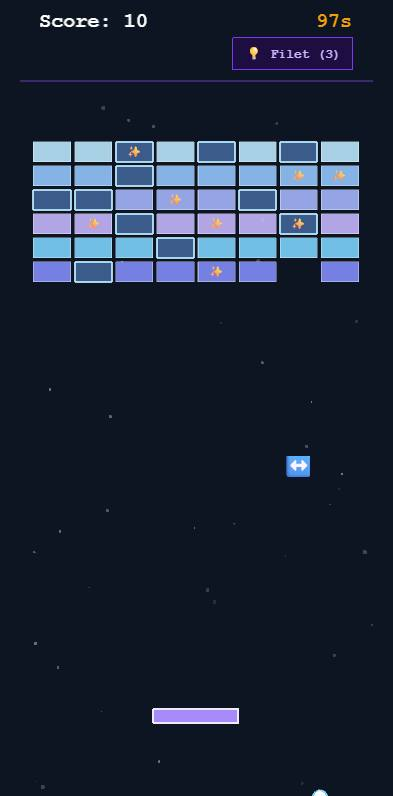
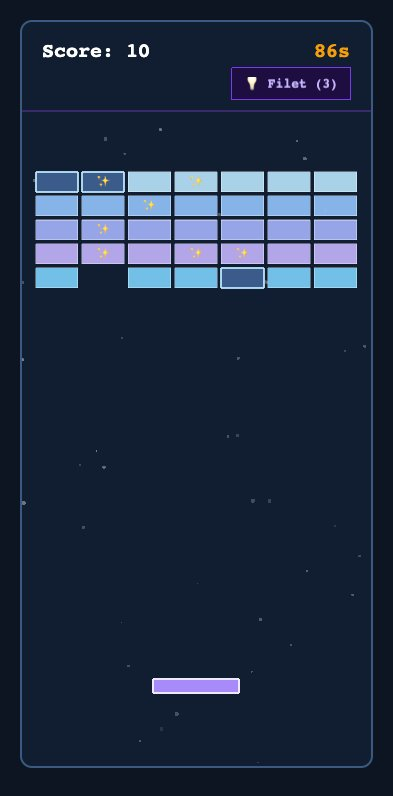
v1.4.1

diff --git a/games/day04_spaceinvaders/game.html b/games/day04_spaceinvaders/game.html
@@ -187,7 +187,7 @@
       player.setPosition(player.x || width / 2, playerY);
       waveText.setX(width - 16);
       hintButton.setX(width - 16);
-      hintText.setX(width - 82);
+      fitHintButton();
       messageText.setPosition(width / 2, height * 0.42);
     }
 
@@ -298,6 +298,13 @@
       scene.tweens.add({ targets: messageText, alpha: 0, delay: 1100, duration: 500 });
     }
 
+
+    // Le bouton violet s'ajuste à son texte (qui change avec la langue et l'état : « Ralentir (3) », « Slowed »...)
+    function fitHintButton() {
+      const w = Math.ceil(hintText.width) + 24;
+      hintButton.setSize(w, hintButton.height).setOrigin(1, 0);
+      hintText.setX(hintButton.x - w / 2);
+    }
     function updateHud() {
       scoreText.setText('Score: ' + score);
       livesText.setText('❤'.repeat(lives) + '🖤'.repeat(Math.max(0, MAX_LIVES - lives)));
@@ -305,6 +312,7 @@
       const tripleActive = scene.time.now < tripleUntil;
       hintText.setText(tripleActive ? T('🔱 Tir triple !', '🔱 Triple shot!') : T('💡 Tir triple (', '💡 Triple shot (') + hintsLeft + ')');
       hintButton.setAlpha(hintsLeft > 0 || tripleActive ? 1 : 0.4);
+      fitHintButton();
     }
 
     function useHint() {

diff --git a/games/day13_runner/game.html b/games/day13_runner/game.html
@@ -173,7 +173,8 @@
 
       timeText.setX(width - 20);
       hintButton.setPosition(width - 20, groundY + 40);
-      hintText.setPosition(width - 75, groundY + 60);
+      hintText.setY(groundY + 60);
+      fitHintButton();
       messageText.setPosition(width / 2, groundY + 110);
 
       // Les obstacles en cours dépendent de l'ancien sol : on les retire
@@ -247,10 +248,18 @@
       return '❤'.repeat(lives) + '🖤'.repeat(MAX_LIVES - lives);
     }
 
+
+    // Le bouton violet s'ajuste à son texte (qui change avec la langue et l'état : « Ralentir (3) », « Slowed »...)
+    function fitHintButton() {
+      const w = Math.ceil(hintText.width) + 24;
+      hintButton.setSize(w, hintButton.height).setOrigin(1, 0);
+      hintText.setX(hintButton.x - w / 2);
+    }
     function updateHintButton() {
       const slowActive = scene.time.now < slowUntil;
       hintText.setText(slowActive ? T('🐢 Ralenti', '🐢 Slowed') : T('💡 Ralentir (', '💡 Slow down (') + hintsLeft + ')');
       hintButton.setAlpha(hintsLeft > 0 || slowActive ? 1 : 0.4);
+      fitHintButton();
     }
 
     // Onglet Jeux : pas d'objectif ; la course accélère jusqu'à +60 % au-delà de la vitesse max en 2 min 30,

diff --git a/games/day20_cassebriques/game.html b/games/day20_cassebriques/game.html
@@ -177,7 +177,7 @@
 
       timeText.setX(width - 20);
       hintButton.setX(width - 20);
-      hintText.setX(width - 80);
+      fitHintButton();
       effectText.setPosition(width / 2, paddleY + 42);
       messageText.setPosition(width / 2, height * 0.58);
       netSprite.setPosition(0, paddleY + 30).setSize(width, 4);
@@ -358,9 +358,17 @@
       paddleSprite.setFillStyle(scene.time.now < invertUntil ? 0xf87171 : 0xa78bfa);
     }
 
+
+    // Le bouton violet s'ajuste à son texte (qui change avec la langue et l'état : « Ralentir (3) », « Slowed »...)
+    function fitHintButton() {
+      const w = Math.ceil(hintText.width) + 24;
+      hintButton.setSize(w, hintButton.height).setOrigin(1, 0);
+      hintText.setX(hintButton.x - w / 2);
+    }
     function updateHintButton() {
       hintText.setText(netActive ? T('🕸 Filet actif', '🕸 Net active') : T('💡 Filet (', '💡 Net (') + hintsLeft + ')');
       hintButton.setAlpha(hintsLeft > 0 || netActive ? 1 : 0.4);
+      fitHintButton();
     }
 
     function updateEffectText() {

diff --git a/games/extra_flappy/game.html b/games/extra_flappy/game.html
@@ -148,7 +148,7 @@
       playerX = Math.round(width * 0.28);
       drawBackground();
       hintButton.setX(width - 16);
-      hintText.setX(width - 78);
+      fitHintButton();
       messageText.setPosition(width / 2, height * 0.3);
       playerSprite.setPosition(playerX, player.y || height * 0.45);
     }
@@ -206,9 +206,17 @@
       }
     }
 
+
+    // Le bouton violet s'ajuste à son texte (qui change avec la langue et l'état : « Ralentir (3) », « Slowed »...)
+    function fitHintButton() {
+      const w = Math.ceil(hintText.width) + 24;
+      hintButton.setSize(w, hintButton.height).setOrigin(1, 0);
+      hintText.setX(hintButton.x - w / 2);
+    }
     function updateHintButton() {
       hintText.setText(shieldActive ? T('🛡 Bouclier actif', '🛡 Shield active') : T('💡 Bouclier (', '💡 Shield (') + hintsLeft + ')');
       hintButton.setAlpha(hintsLeft > 0 || shieldActive ? 1 : 0.4);
+      fitHintButton();
     }
 
     // En bonus : jusqu'à +50 % de vitesse et des passages 25 % plus étroits à la fin

diff --git a/games/day19_dodgeball/game.html b/games/day19_dodgeball/game.html
@@ -161,7 +161,7 @@
 
       timeText.setX(width - 20);
       hintButton.setX(width - 20);
-      hintText.setX(width - 80);
+      fitHintButton();
       messageText.setPosition(width / 2, height / 2);
 
       playerX = Phaser.Math.Clamp(playerX || width / 2, PLAYER_RADIUS, width - PLAYER_RADIUS);
@@ -234,9 +234,17 @@
       return 1 + Math.floor(elapsedMs / MULTIPLIER_STEP_MS);
     }
 
+
+    // Le bouton violet s'ajuste à son texte (qui change avec la langue et l'état : « Ralentir (3) », « Slowed »...)
+    function fitHintButton() {
+      const w = Math.ceil(hintText.width) + 24;
+      hintButton.setSize(w, hintButton.height).setOrigin(1, 0);
+      hintText.setX(hintButton.x - w / 2);
+    }
     function updateHintButton() {
       hintText.setText(shieldActive ? T('🛡 Bouclier actif', '🛡 Shield active') : T('💡 Bouclier (', '💡 Shield (') + hintsLeft + ')');
       hintButton.setAlpha(hintsLeft > 0 || shieldActive ? 1 : 0.4);
+      fitHintButton();
     }
 
     // ---------- Entrées ----------

diff --git a/games/day07_fruitninja/game.html b/games/day07_fruitninja/game.html
@@ -216,7 +216,13 @@
       const gravity = GRAVITY * k * k;
       const rise = (y - height) + height * (RISE_MIN + Math.random() * (RISE_MAX - RISE_MIN));
       const vy = -Math.sqrt(2 * gravity * rise);
-      const vx = (Math.random() - 0.5) * 200 * k;
+      // Point de chute choisi DANS l'écran : la friandise va en ligne droite (horizontalement) de son départ
+      // à ce point pendant tout son vol, elle ne sort donc jamais sur le côté, même sur un petit écran.
+      // Durée du vol ≈ montée + redescente jusqu'au bas de l'écran = 2 × |vy| / gravité.
+      const flightTime = (2 * -vy) / gravity;
+      const margin = OBJECT_RADIUS + 12;
+      const landingX = Phaser.Math.Clamp(x + (Math.random() - 0.5) * width * 0.7, margin, width - margin);
+      const vx = (landingX - x) / flightTime;
 
       // Friandises de Noël à couper ; les bombes ont un halo rouge pour ne jamais les confondre
       let sprite;
